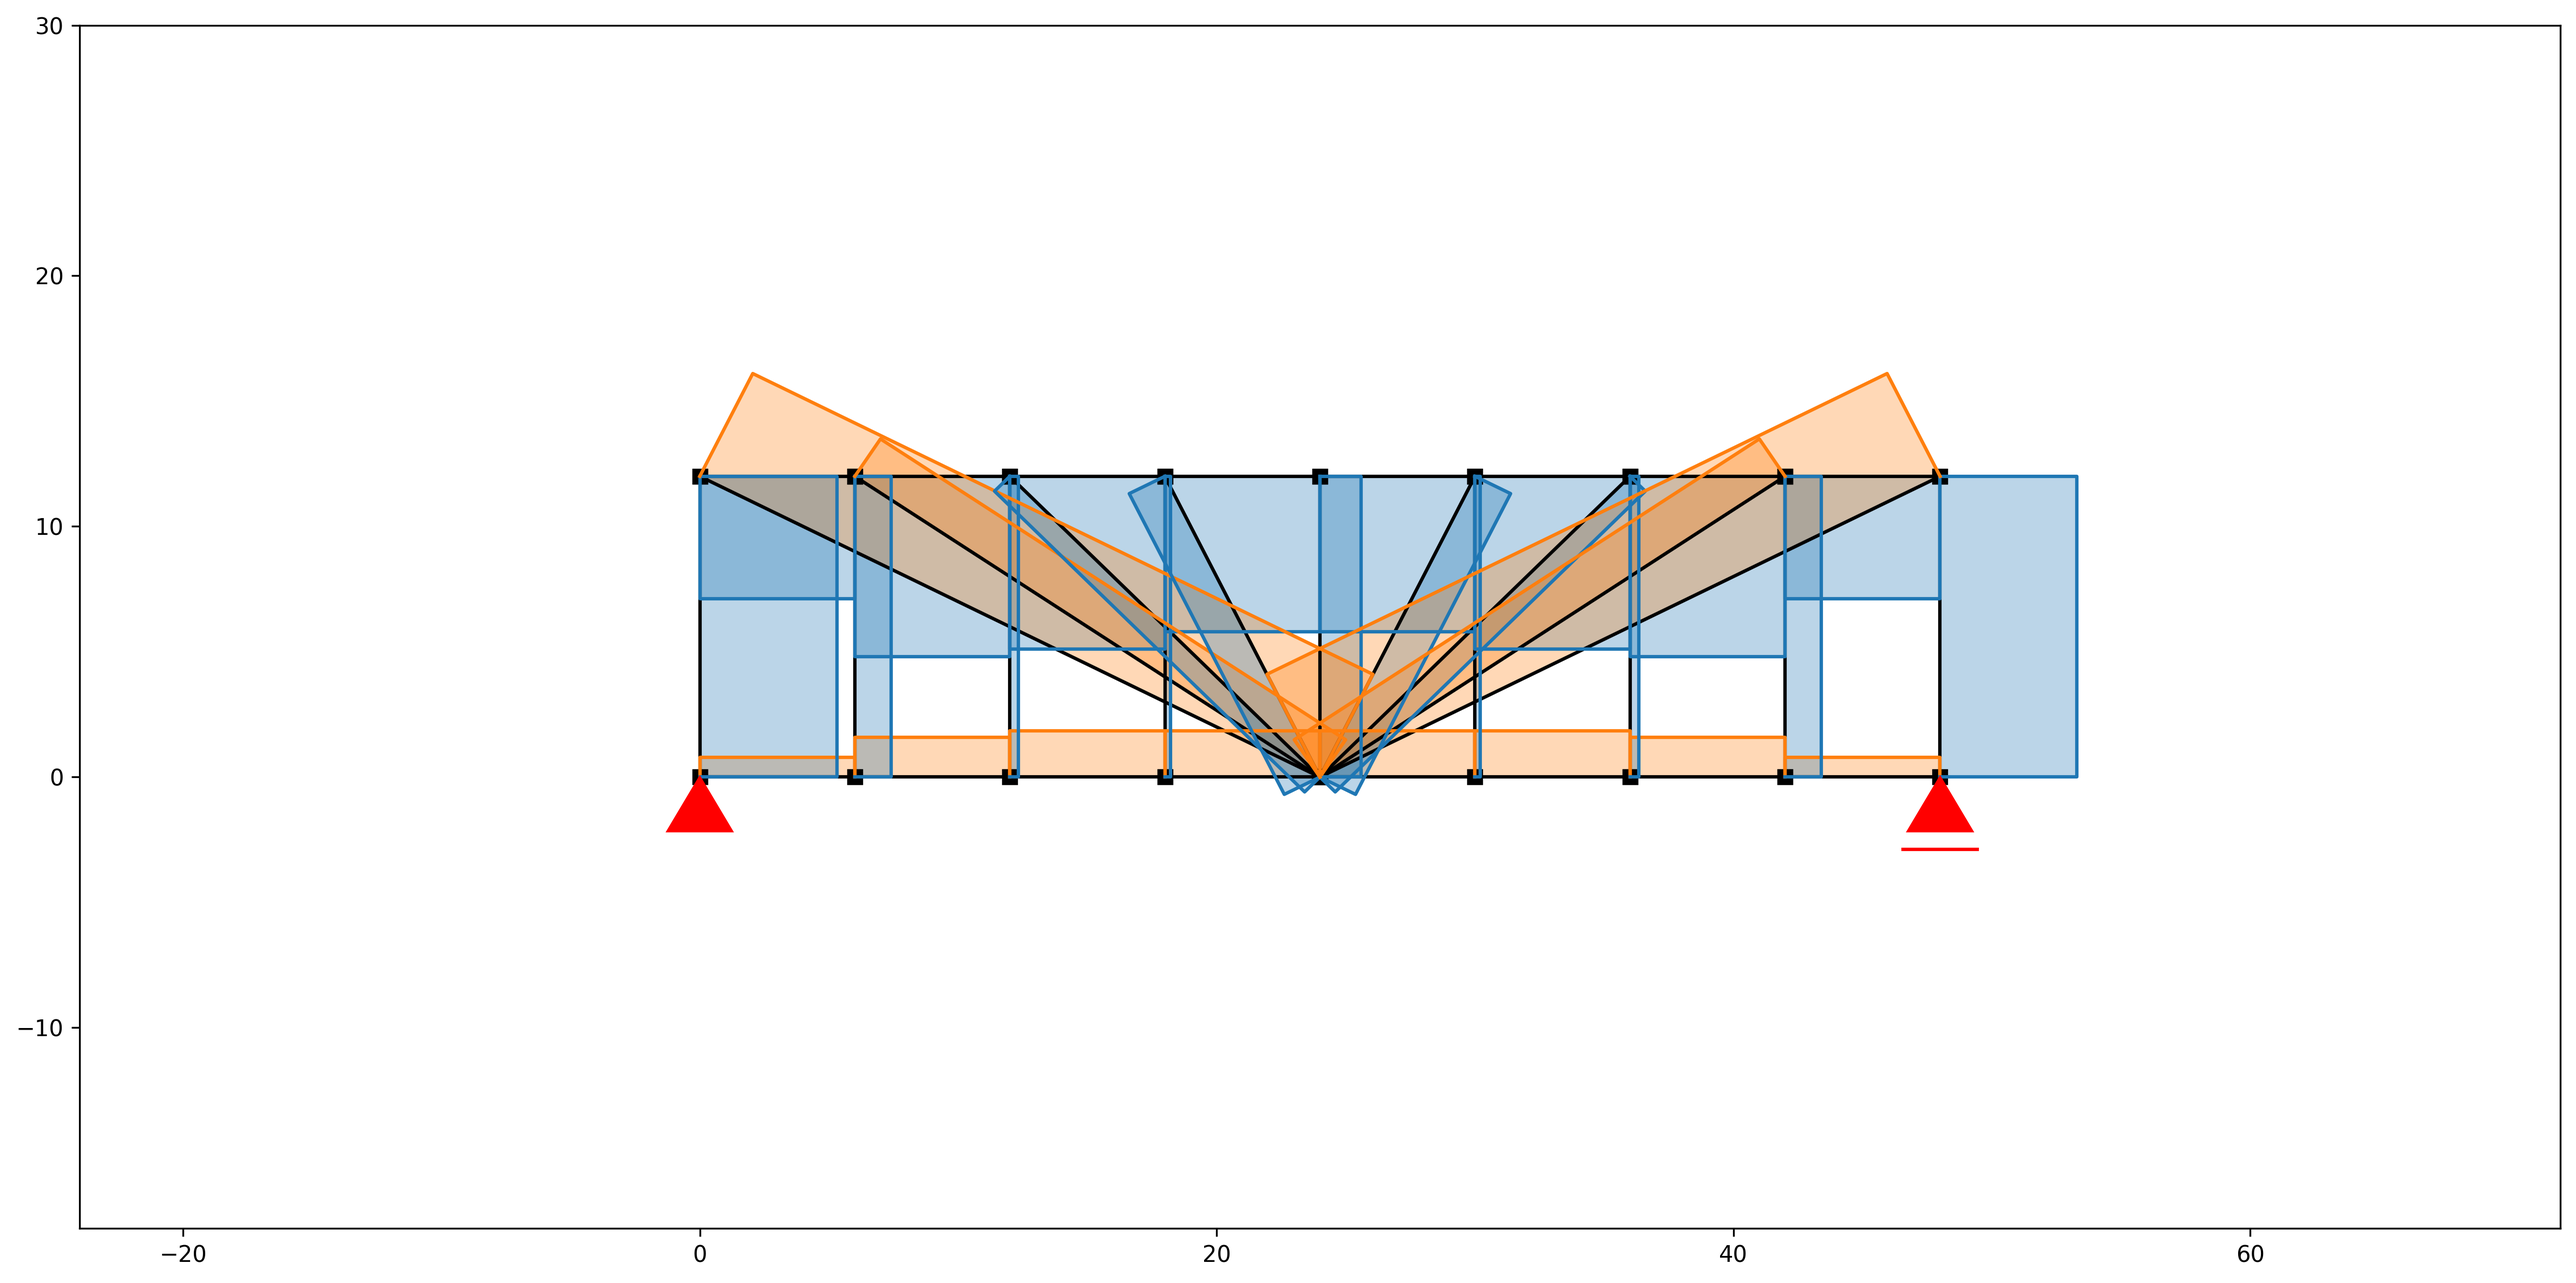
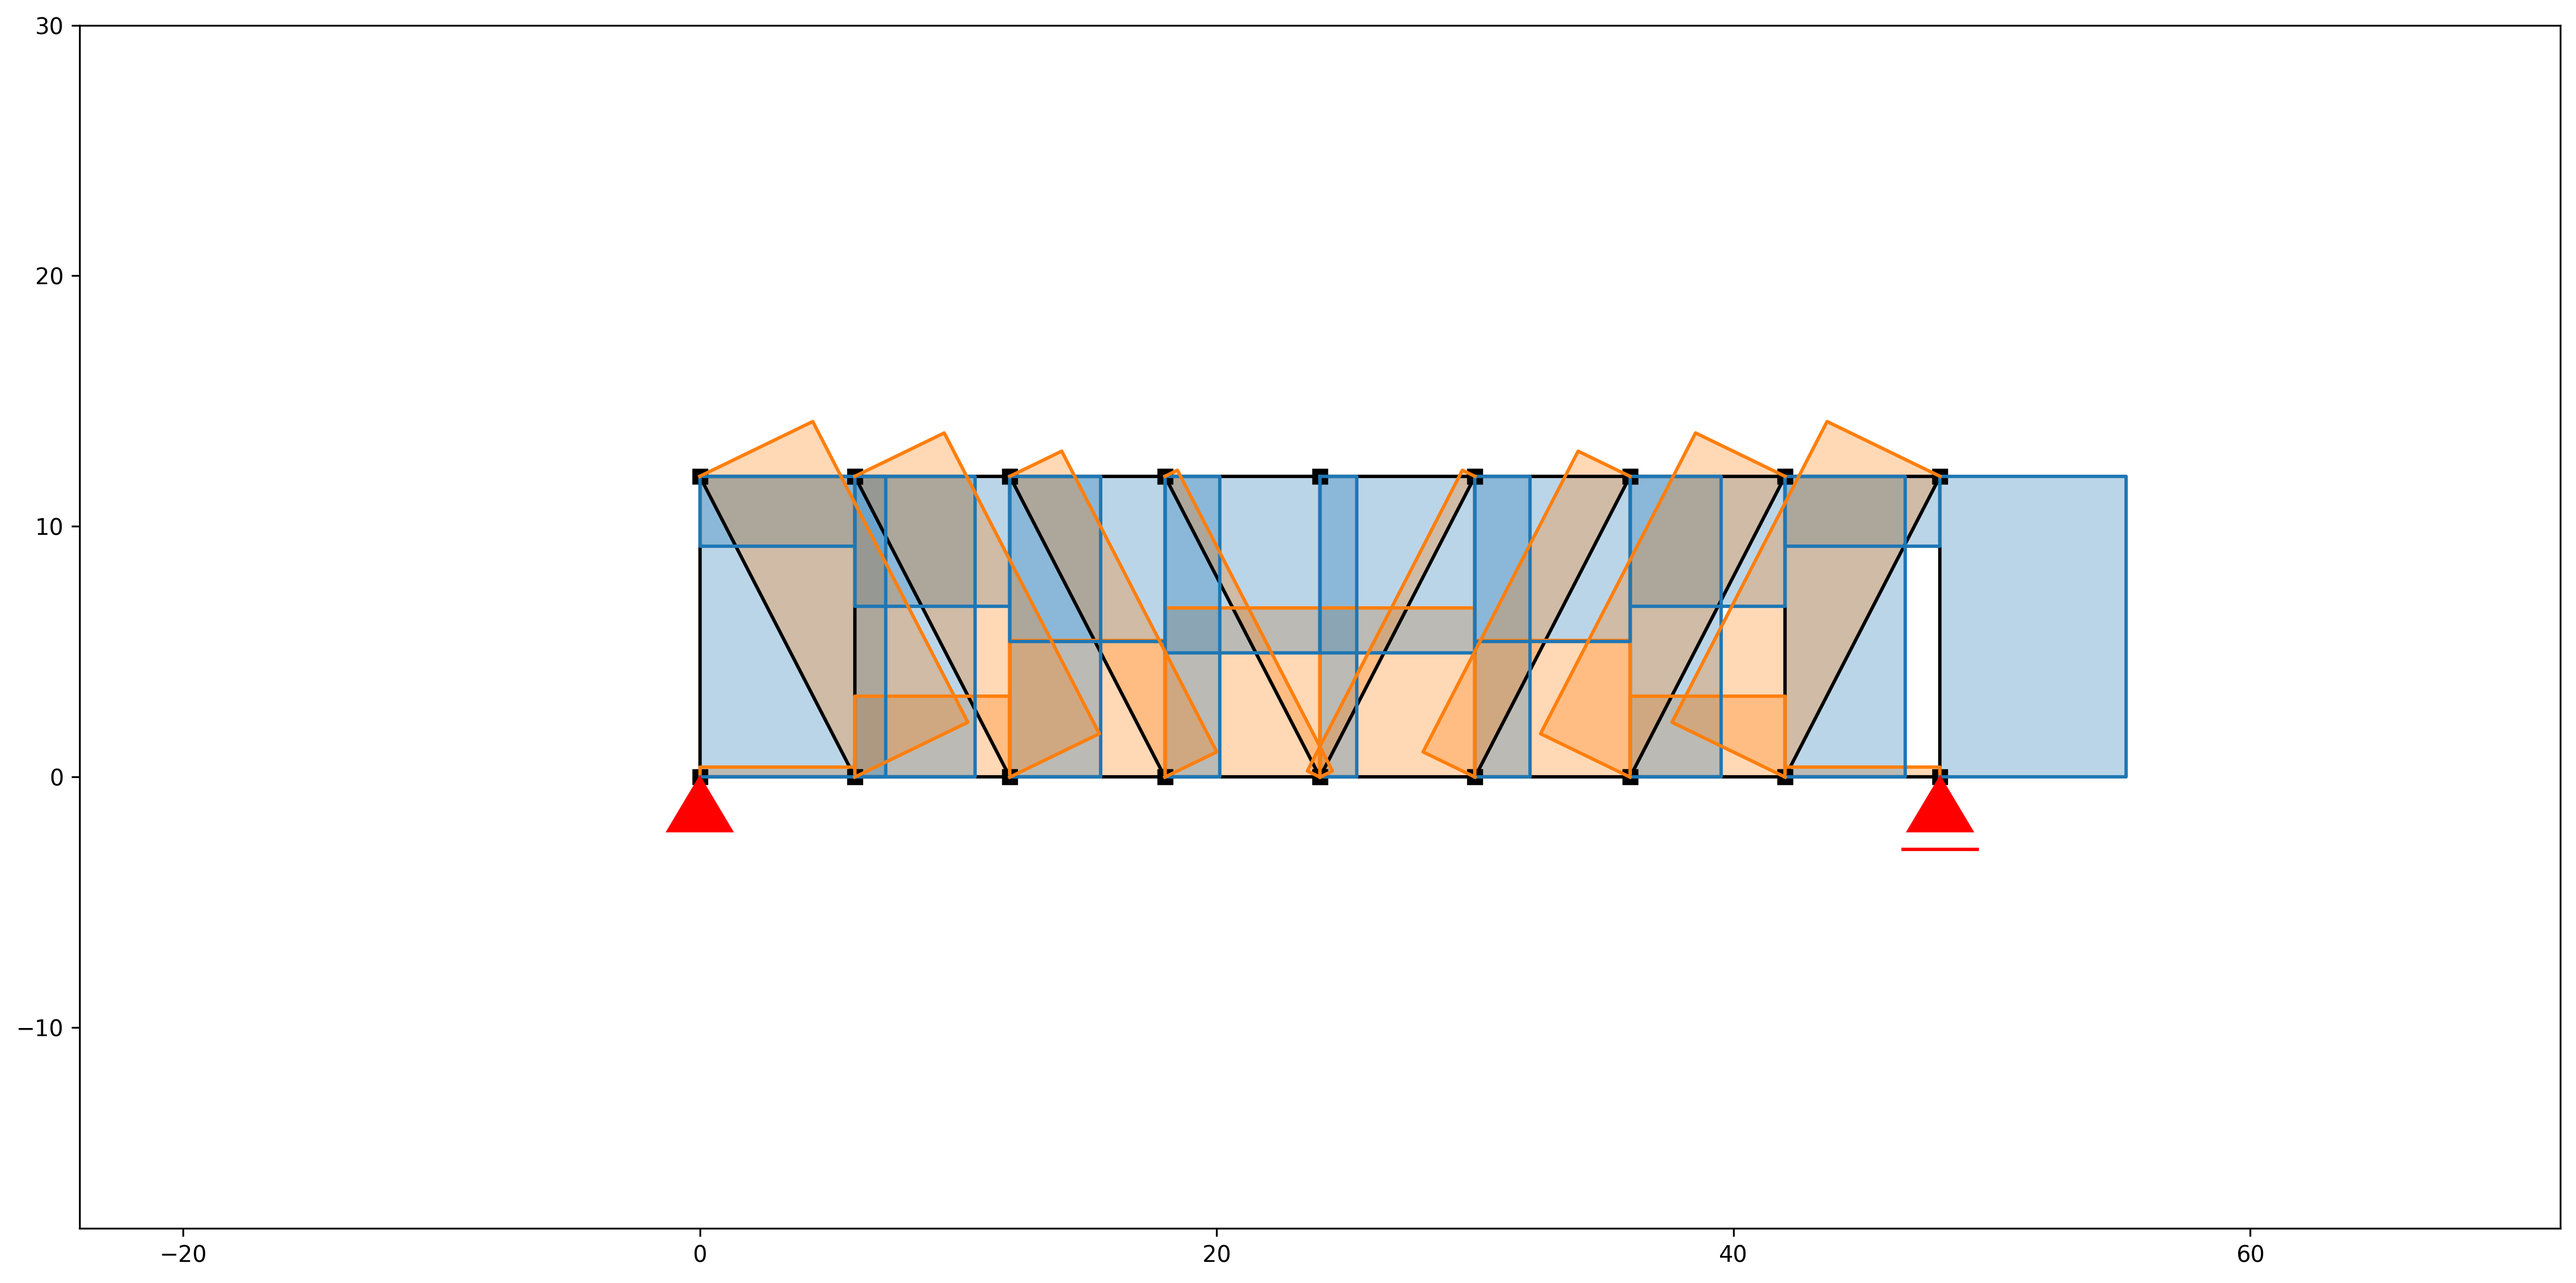
Update diagonal member placement to Pratt truss pattern
Modified the diagonal members (사재) to follow the new requirements:
- Start from center bottom node to immediately previous top node
- Continue connecting previous bottom nodes to previous top nodes
- Maintain consistent angle across all diagonals
- Create symmetric pattern on right side

Changed region(s): [[0.2488, 0.281, 0.8398, 0.6245]]

diff --git a/truss_model.py b/truss_model.py
@@ -5,7 +5,8 @@
 1. 전체 길이: 48m, 격점 간격: 6m, 총 8개 bay
 2. 트러스 높이: 12m
 3. 모든 격점에서 상현재와 하현재를 연결하는 수직재 존재
-4. 중앙 격점에서 시작하여 대각선으로 연결되는 사재 (우측 대칭)
+4. 사재는 중앙 하현재 격점에서 바로 전 상현재 격점으로 시작하여,
+   이전 하현재 격점에서 이전 상현재 격점으로 반복 연결 (우측 대칭)
 5. 지점 조건: 하현재 시작점 힌지, 끝점 롤러
 6. 부재: 0.8x0.8m 두께 20mm 강재 각관
 """
@@ -44,19 +45,24 @@ def create_truss_model():
         ss.add_element(location=[bottom_nodes[i], top_nodes[i]])
     
     # 4. 사재 생성 (diagonal members)
-    # 중앙 격점에서 시작하여 대각선으로 연결
+    # 중앙 하현재 격점에서 바로 전 상현재 격점으로 시작하여
+    # 이전 하현재 격점에서 이전 상현재 격점으로 반복 연결
     # 중앙 격점은 인덱스 4 (0부터 8까지 중 4번째)
     center_index = num_bays // 2  # 4
     
-    # 좌측 사재: 중앙에서 좌측으로
+    # 좌측 사재: 중앙에서 좌측으로 이전 격점 간 연결
+    # center_index(4) → top(3), bottom(3) → top(2), bottom(2) → top(1), bottom(1) → top(0)
     for i in range(center_index):
-        # 하현재의 center_index에서 상현재의 i로 연결
-        ss.add_element(location=[bottom_nodes[center_index], top_nodes[i]])
+        bottom_idx = center_index - i
+        top_idx = center_index - i - 1
+        ss.add_element(location=[bottom_nodes[bottom_idx], top_nodes[top_idx]])
     
-    # 우측 사재: 중앙에서 우측으로 (대칭)
-    for i in range(center_index + 1, num_bays + 1):
-        # 하현재의 center_index에서 상현재의 i로 연결
-        ss.add_element(location=[bottom_nodes[center_index], top_nodes[i]])
+    # 우측 사재: 중앙을 기준으로 대칭
+    # center_index(4) → top(5), bottom(5) → top(6), bottom(6) → top(7), bottom(7) → top(8)
+    for i in range(center_index):
+        bottom_idx = center_index + i
+        top_idx = center_index + i + 1
+        ss.add_element(location=[bottom_nodes[bottom_idx], top_nodes[top_idx]])
     
     # 5. 지점 조건 설정
     # 노드 ID 찾기: 하현재 시작점(0,0)과 끝점(48,0)

diff --git a/README_TRUSS.md b/README_TRUSS.md
@@ -14,7 +14,10 @@
 1. **하현재 (Bottom Chord)**: 8개 부재
 2. **상현재 (Top Chord)**: 8개 부재
 3. **수직재 (Vertical Members)**: 9개 부재 (모든 격점에서 상현재와 하현재 연결)
-4. **사재 (Diagonal Members)**: 8개 부재 (중앙 격점에서 좌우 대칭으로 상현재 격점에 연결)
+4. **사재 (Diagonal Members)**: 8개 부재
+   - 중앙 하현재 격점에서 바로 전 상현재 격점으로 시작
+   - 이전 하현재 격점에서 이전 상현재 격점으로 반복 연결
+   - 중앙을 기준으로 좌우 대칭 배치
 
 **총 부재 수**: 33개
 
@@ -86,11 +89,22 @@ ss = create_truss_model()
 - **상현재 노드**: 9개 (x좌표: 0, 6, 12, 18, 24, 30, 36, 42, 48m, y좌표: 12m)
 
 ### 사재 연결 패턴
-중앙 격점 (24m, 0m)에서:
-- **좌측 사재**: 상현재의 (0,12), (6,12), (12,12), (18,12)로 연결
-- **우측 사재**: 상현재의 (30,12), (36,12), (42,12), (48,12)로 연결
+사재는 Pratt 트러스 형태로 배치됩니다:
 
-이 패턴은 중앙에서 좌우 대칭을 이루며, 트러스의 구조적 효율성을 극대화합니다.
+**좌측 사재**:
+- 하현재 (24m, 0) → 상현재 (18m, 12m)
+- 하현재 (18m, 0) → 상현재 (12m, 12m)
+- 하현재 (12m, 0) → 상현재 (6m, 12m)
+- 하현재 (6m, 0) → 상현재 (0m, 12m)
+
+**우측 사재** (좌측과 대칭):
+- 하현재 (24m, 0) → 상현재 (30m, 12m)
+- 하현재 (30m, 0) → 상현재 (36m, 12m)
+- 하현재 (36m, 0) → 상현재 (42m, 12m)
+- 하현재 (42m, 0) → 상현재 (48m, 12m)
+
+이 패턴은 중앙 격점에서 시작하여 이전 격점으로 순차적으로 연결되며,
+모든 사재가 동일한 각도를 유지하면서 좌우 대칭을 이룹니다.
 
 ## 추가 분석
 

diff --git a/README.md b/README.md
@@ -42,6 +42,7 @@ python example_analysis.py
 - 높이: 12m
 - 부재: 0.8×0.8m 두께 20mm 강재 각관
 - 총 33개 부재 (상현재 8개, 하현재 8개, 수직재 9개, 사재 8개)
+- 사재 배치: Pratt 트러스 형태 (중앙에서 시작하여 순차적으로 이전 격점 연결, 좌우 대칭)
 - 지점: 좌측 힌지, 우측 롤러
 
 자세한 내용은 [README_TRUSS.md](README_TRUSS.md)를 참조하세요." 
